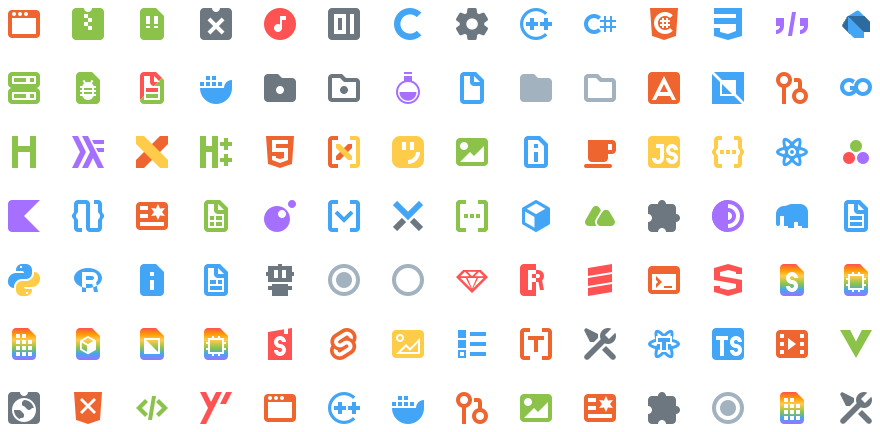
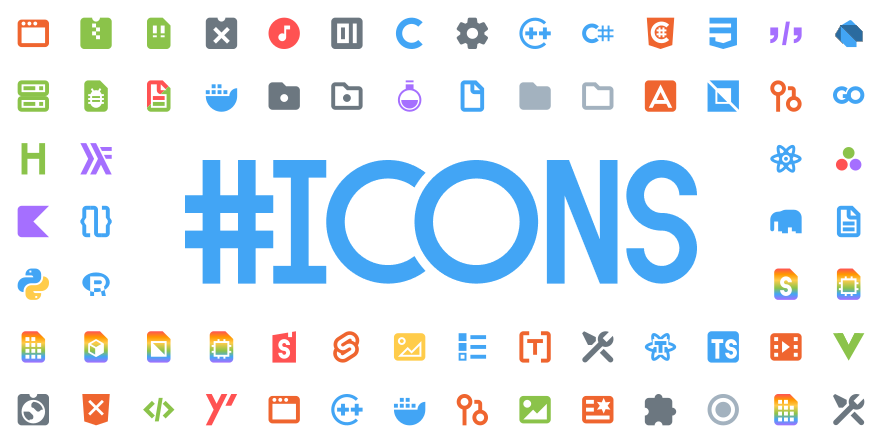
WIP: readme images

diff --git a/build/steps/createImages.ts b/build/steps/createImages.ts
@@ -6,11 +6,11 @@ import sharp from 'sharp'
 
 // the maximum width of an image is 882px in vscode
 
-declare type CollageOptions = {
-	padding: 4
-	spacing: 16
-	iconSize: 16
-	reuseIcons: true
+type CollageOptions = {
+	iconSize: number
+	padding: number
+	spacing: number
+	reuseIcons: boolean
 }
 
 export default function createImages() {
@@ -20,16 +20,23 @@ export default function createImages() {
 
 	const icons = fs.readdirSync('icons')
 
-	function createIconCollage(outputPath: string, colCount: number, rowCount?: number, options?: CollageOptions) {
-		options = options || new CollageOptions()
+	function createIconCollage(colCount: number, options: Partial<CollageOptions> = {}): sharp.Sharp {
+		const defaults: CollageOptions = {
+			iconSize: 16,
+			padding: 4,
+			spacing: 16,
+			reuseIcons: false,
+		}
 
-		rowCount = rowCount || Math.ceil(icons.length / colCount)
+		const opts = Object.assign(defaults, options)
+
+		const rowCount = Math.ceil(icons.length / colCount)
 
 		const area = colCount * rowCount
 		const diff = area - icons.length
 		const originalLength = icons.length
 
-		if (options.reuseIcons) {
+		if (opts.reuseIcons) {
 			// fill the the remaining space by reusing icons
 			console.log(`  - reusing ${diff} icons`)
 			for (let index = 0; index < diff; index++) {
@@ -38,8 +45,8 @@ export default function createImages() {
 			}
 		}
 
-		const imageWidth = (colCount * (options.iconSize + options.spacing) - options.spacing) + (options.padding * 2)
-		const imageHeight = (rowCount * (options.iconSize + options.spacing) - options.spacing) + (options.padding * 2)
+		const imageWidth = (colCount * (opts.iconSize + opts.spacing) - opts.spacing) + (opts.padding * 2)
+		const imageHeight = (rowCount * (opts.iconSize + opts.spacing) - opts.spacing) + (opts.padding * 2)
 
 		const imageDoc = create(`<svg width="${imageWidth}" height="${imageHeight}" viewBox="0 0 ${imageWidth} ${imageHeight}" fill="none" xmlns="http://www.w3.org/2000/svg"></svg>`)
 
@@ -48,8 +55,8 @@ export default function createImages() {
 			const col = index % colCount
 			const row = Math.floor(index / colCount)
 
-			const x = options.padding + (col * (options.iconSize + options.spacing))
-			const y = options.padding + (row * (options.iconSize + options.spacing))
+			const x = opts.padding + (col * (opts.iconSize + opts.spacing))
+			const y = opts.padding + (row * (opts.iconSize + opts.spacing))
 
 			const iconSvg = fs.readFileSync(path.join('icons', icon)).toString()
 
@@ -63,16 +70,25 @@ export default function createImages() {
 		let imageSvg = imageDoc.end({ prettyPrint: true })
 		imageSvg = imageSvg.replace('<?xml version="1.0"?>\n', '')
 
-		sharp(Buffer.from(imageSvg))
-			.resize(imageWidth * 2)
-			.png()
-			.toBuffer()
-			.then(buf => fs.writeFileSync(outputPath, buf))
-			.catch(reason => console.error(reason))
+		return sharp(Buffer.from(imageSvg))
 	}
 
 	console.log('making banner...')
-	createIconCollage(path.join('images', 'readme', 'banner.png'), 14, undefined, { padding: 6 })
+	createIconCollage(14, { padding: 9, reuseIcons: true })
+		.resize((14 * 32 - 16 + 9) * 2, null, { fit: 'inside' })
+		.composite([
+			{
+				input: { create: { background: 'white', width: 600, height: 165, channels: 3 } },
+				blend: 'dest-out',
+			},
+			{
+				input: Buffer.from(fs.readFileSync(path.join('images', 'logo.png'))),
+			}
+		])
+		.png()
+		.toBuffer()
+		.then(buf => fs.writeFileSync(path.join('images', 'readme', 'banner.png'), buf))
+		.catch(reason => console.error(reason))
 	// createIconCollage(path.join('images', 'readme', 'icons.svg'), 9)
 }
 
